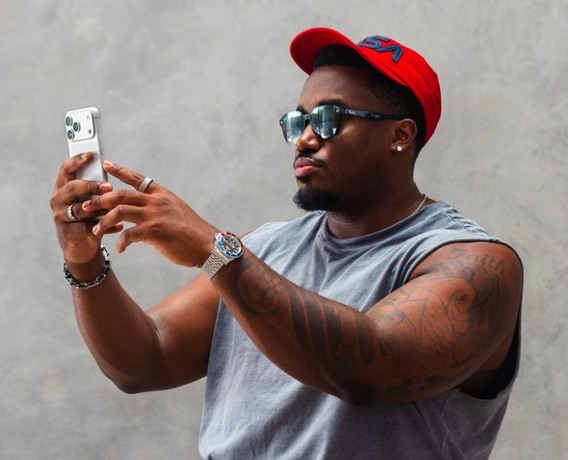
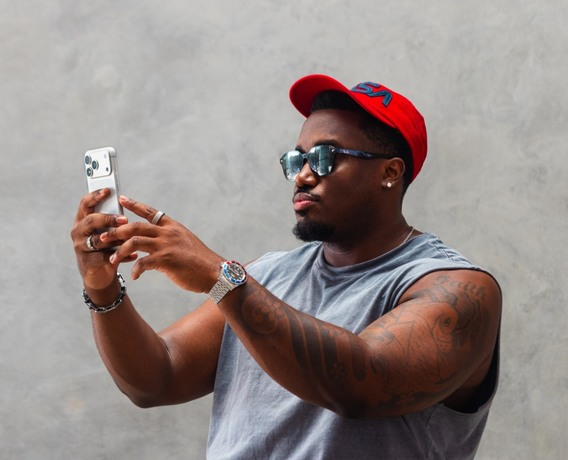
Recrop M02.1 with headroom
The first crop read as boxed-in: 4.7% above the cap, and his shoulder ran
into the right edge. Now 15% headroom with clear margin both sides, from a
slightly wider box at the same aspect.

Two alternatives were rendered into the actual plate and rejected. Sliding
the old crop down fixed the headroom but left the right edge tight. Zooming
further out gave air everywhere but shrank him past reading size at 284px
and pulled the block he is sitting on into the bottom-right corner.

Same file path and aspect, so no markup changed — sheets 01 and 03-12 render
byte-identical.

Claude-Session: https://claude.ai/code/session_01RzAGc63rHXK4eqJtipB8kQ

diff --git a/MEDIA-CHECKLIST.md b/MEDIA-CHECKLIST.md
@@ -39,7 +39,7 @@ the book should say so.
 
 | ID | Type | Spec | Direction |
 |---|---|---|---|
-| M02.1 | Photograph · primary | 284 × 230, 5:4 | **Supplied** &mdash; `assets/fg-m02-1.jpg` at 568 × 460 (2×). Cropped tight to the act: phone, hands, face and the reach, cap to lap, with lead room on the left where he is aiming. The plate is small, so a wider frame would have lost the gesture at print size. |
+| M02.1 | Photograph · primary | 284 × 230, 5:4 | **Supplied** &mdash; `assets/fg-m02-1.jpg` at 568 × 460 (2×). Phone, hands, face and the reach, with lead room on the left where he is aiming. Carries **15% headroom above the cap** and clear margin on both edges: the first crop was tighter and read as boxed-in at plate size. Going wider still was tried and rejected &mdash; at 284px the subject goes small and the block he is sitting on intrudes bottom-right. |
 | M02.2 | Photograph · nuance | 236 × 144 | The iPhone beside the pro camera. Both belong to one kit — this is the shot that stops the page reading as anti-camera. |
 
 ## Sheet 03 — Get Your iPhone Right
